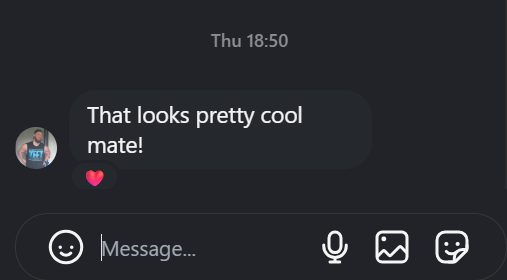
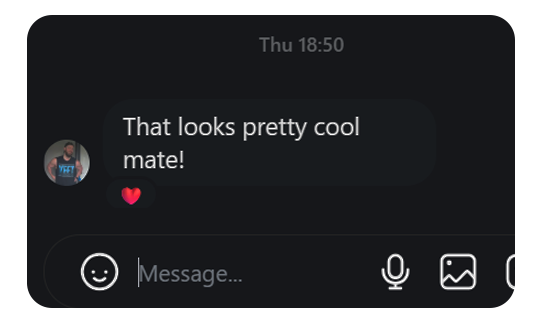
finished my work section

Changed region(s): [[0.0, 0.0, 1.0, 1.0], [0.4142, 0.1143, 0.6509, 0.1714]]

diff --git a/index.html b/index.html
@@ -161,49 +161,70 @@
     <div class="container">
       <div class="section-header reveal">
         <span class="section-tag">Recent Client Projects</span>
-        <h2 class="section-title">Real websites built for <span class="gradient-text">real coaches</span></h2>
-        <p class="section-subtitle">Two recent coaching websites I designed from start to finish to help these coaches build trust with their audience and convert more inquiries.</p>
+        <h2 class="section-title">High-converting <span class="gradient-text">landing pages</span> built for coaches</h2>
+        <p class="section-subtitle">Strategic landing pages designed to help coaches convert more potential clients, build authority, and establish trust with their audience.</p>
       </div>
 
       <div class="portfolio-grid">
         <div class="portfolio-cards-wrapper">
           <div class="portfolio-card reveal reveal-delay-1">
             <div class="portfolio-card-image">
-              <img src="assets/website1.png" alt="Website project for coaching client 1" loading="lazy">
+              <img src="assets/website1.png" alt="Adult Programs Coach website design" loading="lazy">
             </div>
             <div class="portfolio-card-info">
-              <h3>Coach Website Project 01</h3>
-              <p>Complete website design for a coaching business focused on clearer messaging, stronger trust, and better mobile experience.</p>
+              <h3>Adult Programs Coach</h3>
+              <p>High-converting landing page designed for a professional specializing in adult development programs focused on clear messaging, building trust, and converting visitors into clients.</p>
               <div class="portfolio-card-tags">
-                <span class="tag">Client Project</span>
-                <span class="tag">Full Website</span>
-                <span class="tag">Coaching</span>
+                <span class="tag">Coach Website</span>
+                <span class="tag">Adult Programs</span>
+                <span class="tag">Professional</span>
               </div>
             </div>
           </div>
 
           <div class="portfolio-card reveal reveal-delay-2">
             <div class="portfolio-card-image">
-              <img src="assets/website2.png" alt="Website project for coaching client 2" loading="lazy">
+              <img src="assets/website2.png" alt="Competitive Bodybuilding Coach website design" loading="lazy">
             </div>
             <div class="portfolio-card-info">
-              <h3>Coach Website Project 02</h3>
-              <p>Landing-page-first website built to present the offer clearly, guide visitors to action, and support organic lead generation.</p>
+              <h3>Competitive Bodybuilding Coach</h3>
+              <p>Conversion-focused landing page built for a competitive bodybuilding coach showcasing training programs and converting interested athletes into paying clients.</p>
               <div class="portfolio-card-tags">
-                <span class="tag">Client Project</span>
-                <span class="tag">Landing Page</span>
-                <span class="tag">Coaching</span>
+                <span class="tag">Fitness Coach</span>
+                <span class="tag">Bodybuilding</span>
+                <span class="tag">Competition</span>
               </div>
             </div>
           </div>
         </div>
+      </div>
+    </div>
+  </section>
 
-        <div class="portfolio-spline-placeholder" id="work-3d-slot">
-          <spline-viewer
-            url="https://prod.spline.design/MgCkDGKZ4MVEcuc7/scene.splinecode"
-            background="transparent"
-            events-target="none">
-          </spline-viewer>
+  <!-- ====== ABOUT ME ====== -->
+  <section class="section-padding" id="about">
+    <div class="container">
+      <div class="about-content reveal">
+        <div class="about-grid">
+          <div class="about-image-wrap">
+            <img src="assets/me.PNG" alt="Mahdify - Web Designer for Coaches" loading="lazy">
+          </div>
+          
+          <div class="about-text-wrap">
+            <h3 class="about-header">About Me</h3>
+            
+            <div class="about-text">
+              <p>I'm obsessed with mastery. That obsession becomes your advantage.</p>
+              
+              <p>Six years ago, I fell in love with design and code. Not just as skills, but as crafts worth perfecting. Since then, I've built software across the modern tech stack, constantly exploring new tools and better ways to build.</p>
+              
+              <p>But I don't just learn things. I dive deep until I truly understand them.</p>
+              
+              <p>Three years ago, I started calisthenics while studying software engineering. Same mindset: discipline, consistency, and mastery. That philosophy shapes everything I do, including how I build websites.</p>
+              
+              <p>Oh, and I'm a magician too. (Don't worry. No smoke and mirrors in your landing page. Just clear strategy and clean code.)</p>
+            </div>
+          </div>
         </div>
       </div>
     </div>
@@ -214,8 +235,7 @@
     <div class="container">
       <div class="section-header reveal">
         <span class="section-tag">Client Feedback</span>
-        <h2 class="section-title">Real comments from <span class="gradient-text">coach clients</span></h2>
-        <p class="section-subtitle">Shared with permission from Instagram conversations.</p>
+        <h2 class="section-title">Here's what they said <span class="gradient-text">after seeing their websites</span></h2>
       </div>
 
       <div class="testimonials-grid">
@@ -223,14 +243,12 @@
           <div class="testimonial-image-wrap">
             <img src="assets/test1.png" alt="Client Instagram feedback screenshot 1" loading="lazy">
           </div>
-          <p class="testimonial-source">Instagram client feedback</p>
         </div>
 
         <div class="testimonial-card testimonial-card--image reveal reveal-delay-2">
           <div class="testimonial-image-wrap">
             <img src="assets/test2.png" alt="Client Instagram feedback screenshot 2" loading="lazy">
           </div>
-          <p class="testimonial-source">Instagram client feedback</p>
         </div>
       </div>
     </div>

diff --git a/style.css b/style.css
@@ -276,10 +276,10 @@ ul, ol {
 /* Spline 3D — full-bleed, non-interactive visual backdrop */
 .spline-fullbleed {
   position: absolute;
-  top: 0; /* starts at hero top to shift the 3D visual lower */
+  top: -160px; /* bleeds further up behind the navbar */
   left: 0;
   width: 100%;
-  height: 100%;
+  height: calc(100% + 160px);
   z-index: 1;
   pointer-events: none; /* purely decorative — no mouse interaction */
   overflow: hidden;
@@ -290,7 +290,7 @@ ul, ol {
   height: 100%;
   display: block;
   pointer-events: none; /* disable all 3D interaction */
-  transform: scale(1.9); /* zoom in the scene */
+  transform: scale(1.6); /* zoom in the scene */
   transform-origin: center center;
   opacity: 0;
   animation: fadeInSpline 0.8s ease-out 0.3s forwards;
@@ -628,17 +628,47 @@ ul, ol {
 /* ============================================
    PORTFOLIO / WORK SECTION
    ============================================ */
+#work {
+  position: relative;
+  background: var(--bg-secondary);
+}
+
+#work::before {
+  content: '';
+  position: absolute;
+  top: 0;
+  left: -20%;
+  width: 500px;
+  height: 500px;
+  background: radial-gradient(circle, rgba(124, 58, 237, 0.08) 0%, transparent 70%);
+  border-radius: 50%;
+  pointer-events: none;
+  z-index: 0;
+}
+
+#work::after {
+  content: '';
+  position: absolute;
+  bottom: 10%;
+  right: -10%;
+  width: 400px;
+  height: 400px;
+  background: radial-gradient(circle, rgba(37, 99, 235, 0.06) 0%, transparent 70%);
+  border-radius: 50%;
+  pointer-events: none;
+  z-index: 0;
+}
+
 .portfolio-grid {
   display: grid;
-  grid-template-columns: minmax(0, 0.55fr) minmax(0, 0.45fr);
+  grid-template-columns: repeat(2, 1fr);
   gap: 28px;
-  align-items: stretch;
+  position: relative;
+  z-index: 1;
 }
 
 .portfolio-cards-wrapper {
-  display: flex;
-  flex-direction: column;
-  gap: 20px;
+  display: contents;
 }
 
 .portfolio-card {
@@ -661,36 +691,6 @@ ul, ol {
   aspect-ratio: 16 / 10;
   overflow: hidden;
   background: linear-gradient(135deg, rgba(124, 58, 237, 0.15), rgba(37, 99, 235, 0.1));
-}
-
-.portfolio-spline-placeholder {
-  border-radius: var(--radius-lg);
-  border: 1.5px solid var(--border-accent);
-  background:
-    radial-gradient(circle at 20% 25%, rgba(124, 58, 237, 0.15), transparent 50%),
-    radial-gradient(circle at 80% 75%, rgba(37, 99, 235, 0.12), transparent 50%),
-    rgba(255, 255, 255, 0.01);
-  aspect-ratio: 9 / 11;
-  display: flex;
-  align-items: center;
-  justify-content: center;
-  position: relative;
-  overflow: hidden;
-}
-
-.portfolio-spline-placeholder spline-viewer {
-  width: 100%;
-  height: 100%;
-  display: block;
-  pointer-events: none;
-  opacity: 0;
-  animation: fadeInSpline 0.8s ease-out 0.4s forwards;
-}
-
-@keyframes fadeInSpline {
-  to {
-    opacity: 1;
-  }
 }
 
 .portfolio-card-image img {
@@ -739,6 +739,93 @@ ul, ol {
 }
 
 /* ============================================
+   ABOUT ME SECTION
+   ============================================ */
+#about {
+  background: var(--bg-secondary);
+}
+
+.about-content {
+  max-width: 1000px;
+  margin: 0 auto;
+}
+
+.about-grid {
+  display: grid;
+  grid-template-columns: 400px 1fr;
+  gap: 60px;
+  align-items: center;
+}
+
+.about-image-wrap {
+  position: relative;
+}
+
+.about-image-wrap img {
+  width: 100%;
+  height: auto;
+  border-radius: var(--radius-lg);
+  display: block;
+  box-shadow: 0 20px 60px rgba(124, 58, 237, 0.2);
+  transition: transform var(--transition-smooth);
+}
+
+.about-image-wrap:hover img {
+  transform: translateY(-8px);
+}
+
+.about-header {
+  font-size: 0.9rem;
+  font-weight: 600;
+  text-transform: uppercase;
+  letter-spacing: 2px;
+  color: var(--accent-violet);
+  margin-bottom: 24px;
+  display: inline-block;
+}
+
+.about-title {
+  font-size: clamp(1.8rem, 3.5vw, 2.6rem);
+  font-weight: 800;
+  line-height: 1.15;
+  letter-spacing: -1px;
+  margin-bottom: 40px;
+}
+
+.about-text {
+  display: flex;
+  flex-direction: column;
+  gap: 16px;
+}
+
+.about-text p {
+  font-size: 1.05rem;
+  color: var(--text-secondary);
+  line-height: 1.8;
+}
+
+.about-text p:first-letter {
+  font-size: 1.2rem;
+}
+
+.emoji {
+  color: var(--text-secondary);
+}
+
+/* Responsive */
+@media (max-width: 768px) {
+  .about-grid {
+    grid-template-columns: 1fr;
+    gap: 40px;
+  }
+  
+  .about-image-wrap {
+    max-width: 300px;
+    margin: 0 auto;
+  }
+}
+
+/* ============================================
    TESTIMONIALS SECTION
    ============================================ */
 .testimonials-grid {
@@ -748,34 +835,36 @@ ul, ol {
 }
 
 .testimonial-card {
-  background: var(--bg-card);
-  border: 1px solid var(--border-subtle);
-  border-radius: var(--radius-lg);
-  padding: 36px;
-  transition: var(--transition-smooth);
+  background: transparent;
+  border: none;
+  padding: 0;
+  transition: none;
 }
 
 .testimonial-card:hover {
-  border-color: var(--border-accent);
-  background: var(--bg-card-hover);
+  border-color: transparent;
+  background: transparent;
+  transform: none;
 }
 
 .testimonial-card--image {
-  padding: 14px;
+  padding: 0;
 }
 
 .testimonial-image-wrap {
   width: 100%;
-  aspect-ratio: 4 / 3;
-  border-radius: calc(var(--radius-lg) - 4px);
+  height: 400px;
+  border-radius: var(--radius-lg);
   overflow: hidden;
-  border: 1px solid rgba(255, 255, 255, 0.08);
+  display: flex;
+  align-items: center;
+  justify-content: center;
 }
 
 .testimonial-image-wrap img {
   width: 100%;
   height: 100%;
-  object-fit: cover;
+  object-fit: contain;
   display: block;
 }
 
@@ -1163,27 +1252,7 @@ ul, ol {
   }
 
   .portfolio-cards-wrapper {
-    gap: 16px;
-    position: relative;
-    z-index: 2;
-    background: linear-gradient(to bottom, var(--bg-secondary) 0%, var(--bg-secondary) 60%, transparent 100%);
-    padding-bottom: 12px;
-  }
-
-  .portfolio-spline-placeholder {
-    position: absolute;
-    top: 0;
-    left: 0;
-    width: 100%;
-    height: 100%;
-    aspect-ratio: auto;
-    border: none;
-    background: transparent;
-    border-radius: 0;
-  }
-
-  .portfolio-spline-placeholder spline-viewer {
-    opacity: 0.5;
+    display: contents;
   }
 
   .services-grid,
